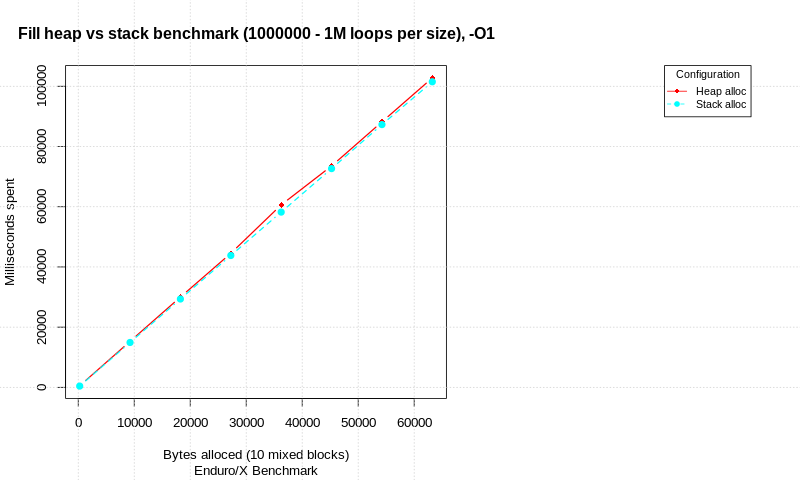
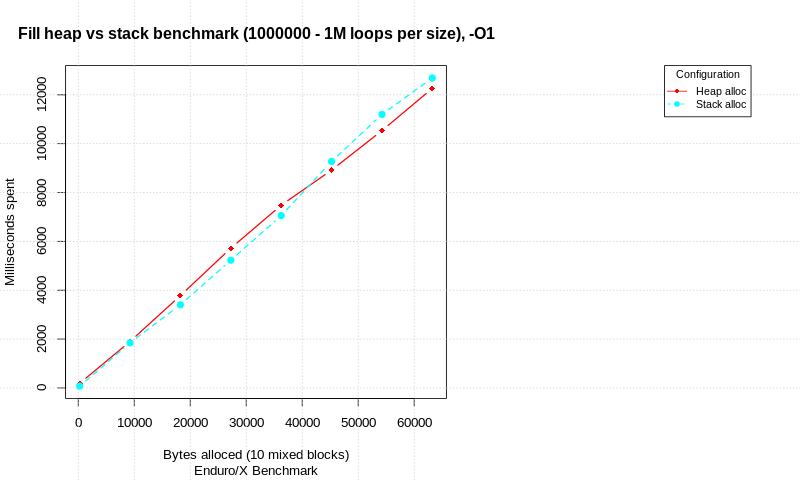
Updates on benchmark

diff --git a/stack.c b/stack.c
@@ -6,6 +6,7 @@
 
 static int M_fill = 0;
 long sum, sump;
+char rnd_block[1000000];
 
 void fill_block(char *block, int size)
 {
@@ -13,9 +14,9 @@ void fill_block(char *block, int size)
 
 	if (M_fill)
 	{
-		for (i=0; i<size; i++)
+		memcpy(block, rnd_block, size);
+		for (i=0; i<size; i+=10)
 		{
-			block[i] = i%255;
 			sum+=block[i];
 		}
 	}
@@ -112,6 +113,7 @@ int main(int argc, char **argv)
 	ndrx_stopwatch_t w;
 	long result;
 	long loops;
+	time_t t;
 	
 	if (argc < 5)
 	{
@@ -133,6 +135,11 @@ int main(int argc, char **argv)
 	if ('f'==argv[2][0])
 	{
 		M_fill = 1;
+	}
+
+	for (i=0; i<sizeof(rnd_block); i++)
+	{
+		rnd_block[i] = rand() % 255;
 	}
 
 	for (i=30; i<8000; i+=1024)
